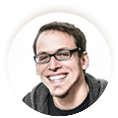
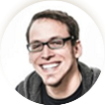
_testimonial.scss (vartical-align)

diff --git a/index.html b/index.html
@@ -201,21 +201,27 @@
                             <h3 class="testimonial-header">TESTIMONIAL</h3> 
                             <sector class="sector">
                                 <p class="testimonial-text">I have been involved with this comapny for ages and just .</p>
-                                <img src="images/ellipse_1_122.png" alt="none" class="tstimonial-icon testimonial-image">
+                                <div class="tstimonial-icon">
+                                    <img src="images/ellipse_1_122.png" alt="none" class="testimonial-image">
+                                </div>
                                 <div class="snippet at-color">
                                     DJ Bravo - Frequent Travelera
                                 </div>
                             </sector>
                             <sector class="sector">
                                 <p class="testimonial-text">I have been involved with this comapny for ages and just .</p>
-                                <img src="images/ellipse_1_150.jpg" alt="none" class="tstimonial-icon testimonial-image">
+                                <div class="tstimonial-icon">
+                                    <img src="images/ellipse_1_150.jpg" alt="none" class="testimonial-image">
+                                </div>
                                 <div class="snippet at-color">
                                     DJ Bravo - Frequent Travelera
                                 </div>
                             </sector>
                             <sector class="sector">
                                 <p class="testimonial-text">I have been involved with this comapny for ages and just .</p>
-                                <img src="images/ellipse_1_150.jpg" alt="none" class="tstimonial-icon testimonial-image">
+                                <div class="tstimonial-icon">
+                                    <img src="images/ellipse_1_150.jpg" alt="none" class="testimonial-image">
+                                </div>               
                                 <div class="snippet at-color">
                                     DJ Bravo - Frequent Travelera
                                 </div>
@@ -226,21 +232,33 @@
                             <h3 class="gallery-header">GALLERY</h3> 
                             <div class="gallery-icons">
 
-                                <img src="images/ellipse_1_150.jpg" alt="none" class="gallery-icon gallery-image">
+                                <div class="gallery-icon">
+                                    <img src="images/ellipse_1_150.jpg" alt="none" class="gallery-image">
+                                </div>
 
+                                <div class="gallery-icon">
+                                    <img src="images/ellipse_1_150.jpg" alt="none" class="gallery-image">
+                                </div>
 
-                                <img src="images/ellipse_1_150.jpg" alt="none" class="gallery-icon gallery-image">
+                                <div class="gallery-icon">
+                                    <img src="images/ellipse_1_150.jpg" alt="none" class="gallery-image">
+                                </div>
 
-                                <img src="images/ellipse_1_150.jpg" alt="none" class="gallery-icon gallery-image">
+                                <div class="gallery-icon">
+                                    <img src="images/ellipse_1_150.jpg" alt="none" class="gallery-image">
+                                </div>
 
-                                <img src="images/ellipse_1_150.jpg" alt="none" class="gallery-icon gallery-image">
+                                <div class="gallery-icon">
+                                    <img src="images/ellipse_1_150.jpg" alt="none" class="gallery-image">
+                                </div>
 
+                                <div class="gallery-icon">
+                                    <img src="images/ellipse_1_150.jpg" alt="none" class="gallery-image">
+                                </div>
 
-                                <img src="images/ellipse_1_150.jpg" alt="none" class="gallery-icon gallery-image">
-
-                                <img src="images/ellipse_1_150.jpg" alt="none" class="gallery-icon gallery-image">
-
-                                <img src="images/ellipse_1_150.jpg" alt="none" class="gallery-icon gallery-image">
+                                <div class="gallery-icon">
+                                    <img src="images/ellipse_1_150.jpg" alt="none" class="gallery-image">
+                                </div>
 
                             </div>
                             <a href="#" class="link-gallery at-color">VIEW MORE PICTURES</a>

diff --git a/scss/_testimonial.scss b/scss/_testimonial.scss
@@ -2,7 +2,6 @@
     display:flex;
     justify-content: space-between;
     padding: 0 84px;
-
                 // border: 10px solid red;
 }
 
@@ -12,7 +11,6 @@
     margin-top: 140px;
     margin-bottom: 55px;
     width: 440px;
-
                 // border: 5px solid blue;
 }
 
@@ -31,7 +29,6 @@
     display: block;
     background-color: transparent;
     margin-bottom: 65px;
-
                 // border: 3px solid yellow;
 
     position: relative;
@@ -56,10 +53,13 @@
 
 .tstimonial-icon{
     border-radius: 50%;
-    width: 105px;
-    height: 105px;
+    width: 115px;
+    height: 115px;
+    line-height: 115px;
     background-color: #d03958;
     box-shadow: 0px -5px 16px 0px rgba(184,172,147,0.75);
+
+    text-align: center;
 
     position: absolute;
     top: 22px;
@@ -71,7 +71,9 @@
 }
 
 .testimonial-image{
-    display: block;
+    display: inline-block;
+    vertical-align: bottom;
+    border-radius: 50%;
     width: 105px;
     height: 105px;
 }
@@ -107,7 +109,6 @@
     align-items: flex-start;
     flex-wrap: wrap;
     align-content: flex-start;
-
                 // border: 3px solid yellow;
 
     margin-bottom: 46px;
@@ -116,16 +117,24 @@
 .gallery-icon{
     margin: 18px;
     border-radius: 50%;
-    width: 105px;
-    height: 105px;
-    background-color: #d03958;
+    width: 110px;
+    height: 110px;
+    line-height: 106px;
+    text-align: center;
+    background-color: transparent;
     box-shadow: 0px -5px 16px 0px rgba(184,172,147,0.75);
 }
 
+.gallery-icon:hover{
+    background-color: #d03958;
+}
+
 .gallery-image{
-    display: block;
-    width: 105px;
-    height: 105px;
+    display: inline-block;
+    vertical-align: middle;
+    border-radius: 50%;
+    width: 104px;
+    height: 104px;
 }
 
 .link-gallery{

diff --git a/css/style.css b/css/style.css
@@ -504,10 +504,12 @@ input[type=text]::placeholder {
 
 .tstimonial-icon {
   border-radius: 50%;
-  width: 105px;
-  height: 105px;
+  width: 115px;
+  height: 115px;
+  line-height: 115px;
   background-color: #d03958;
   box-shadow: 0px -5px 16px 0px rgba(184, 172, 147, 0.75);
+  text-align: center;
   position: absolute;
   top: 22px;
   left: 375px;
@@ -518,7 +520,9 @@ input[type=text]::placeholder {
 }
 
 .testimonial-image {
-  display: block;
+  display: inline-block;
+  vertical-align: bottom;
+  border-radius: 50%;
   width: 105px;
   height: 105px;
 }
@@ -558,16 +562,24 @@ input[type=text]::placeholder {
 .gallery-icon {
   margin: 18px;
   border-radius: 50%;
-  width: 105px;
-  height: 105px;
-  background-color: #d03958;
+  width: 110px;
+  height: 110px;
+  line-height: 106px;
+  text-align: center;
+  background-color: transparent;
   box-shadow: 0px -5px 16px 0px rgba(184, 172, 147, 0.75);
 }
 
+.gallery-icon:hover {
+  background-color: #d03958;
+}
+
 .gallery-image {
-  display: block;
-  width: 105px;
-  height: 105px;
+  display: inline-block;
+  vertical-align: middle;
+  border-radius: 50%;
+  width: 104px;
+  height: 104px;
 }
 
 .link-gallery {
